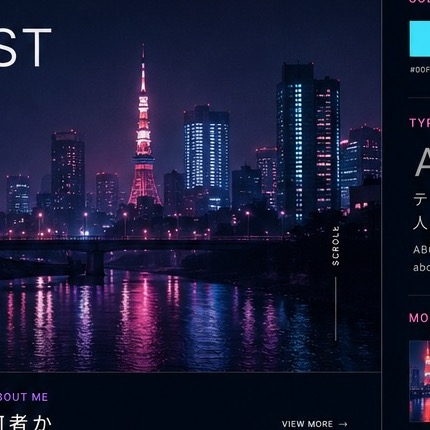
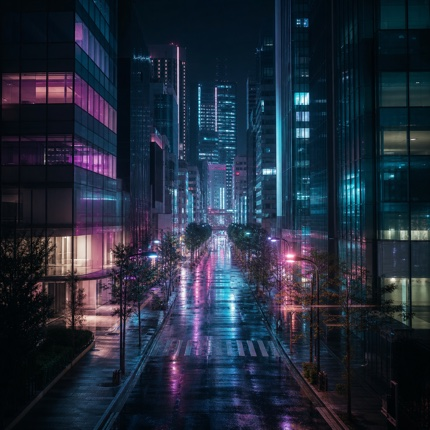
changed image

diff --git a/src/App.css b/src/App.css
@@ -203,6 +203,9 @@ textarea {
 }
 
 .visual-photo {
+  background-image:
+    linear-gradient(180deg, rgba(4, 7, 18, 0.08), rgba(4, 7, 18, 0.46)),
+    url("/neon-river-photo.jpg");
   border: 1px solid rgba(125, 222, 255, 0.18);
   border-radius: 26px;
   box-shadow: